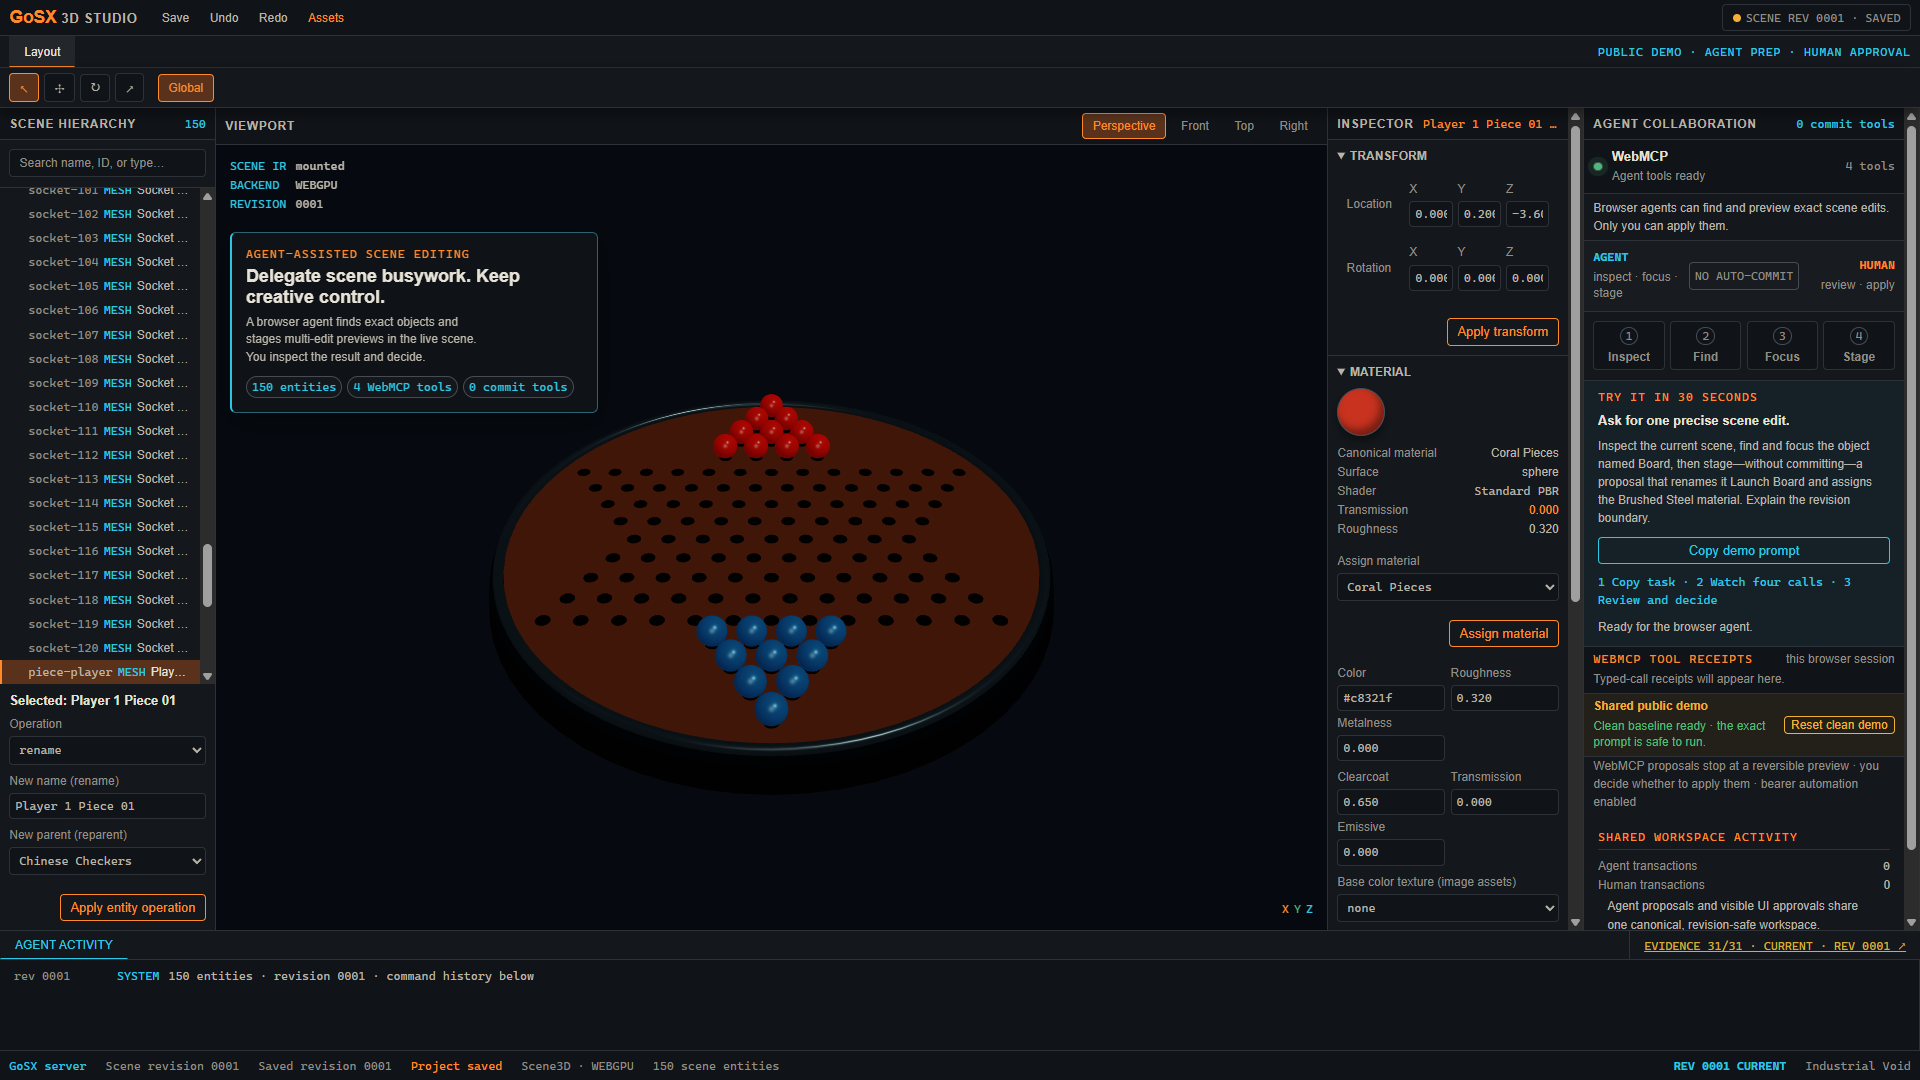
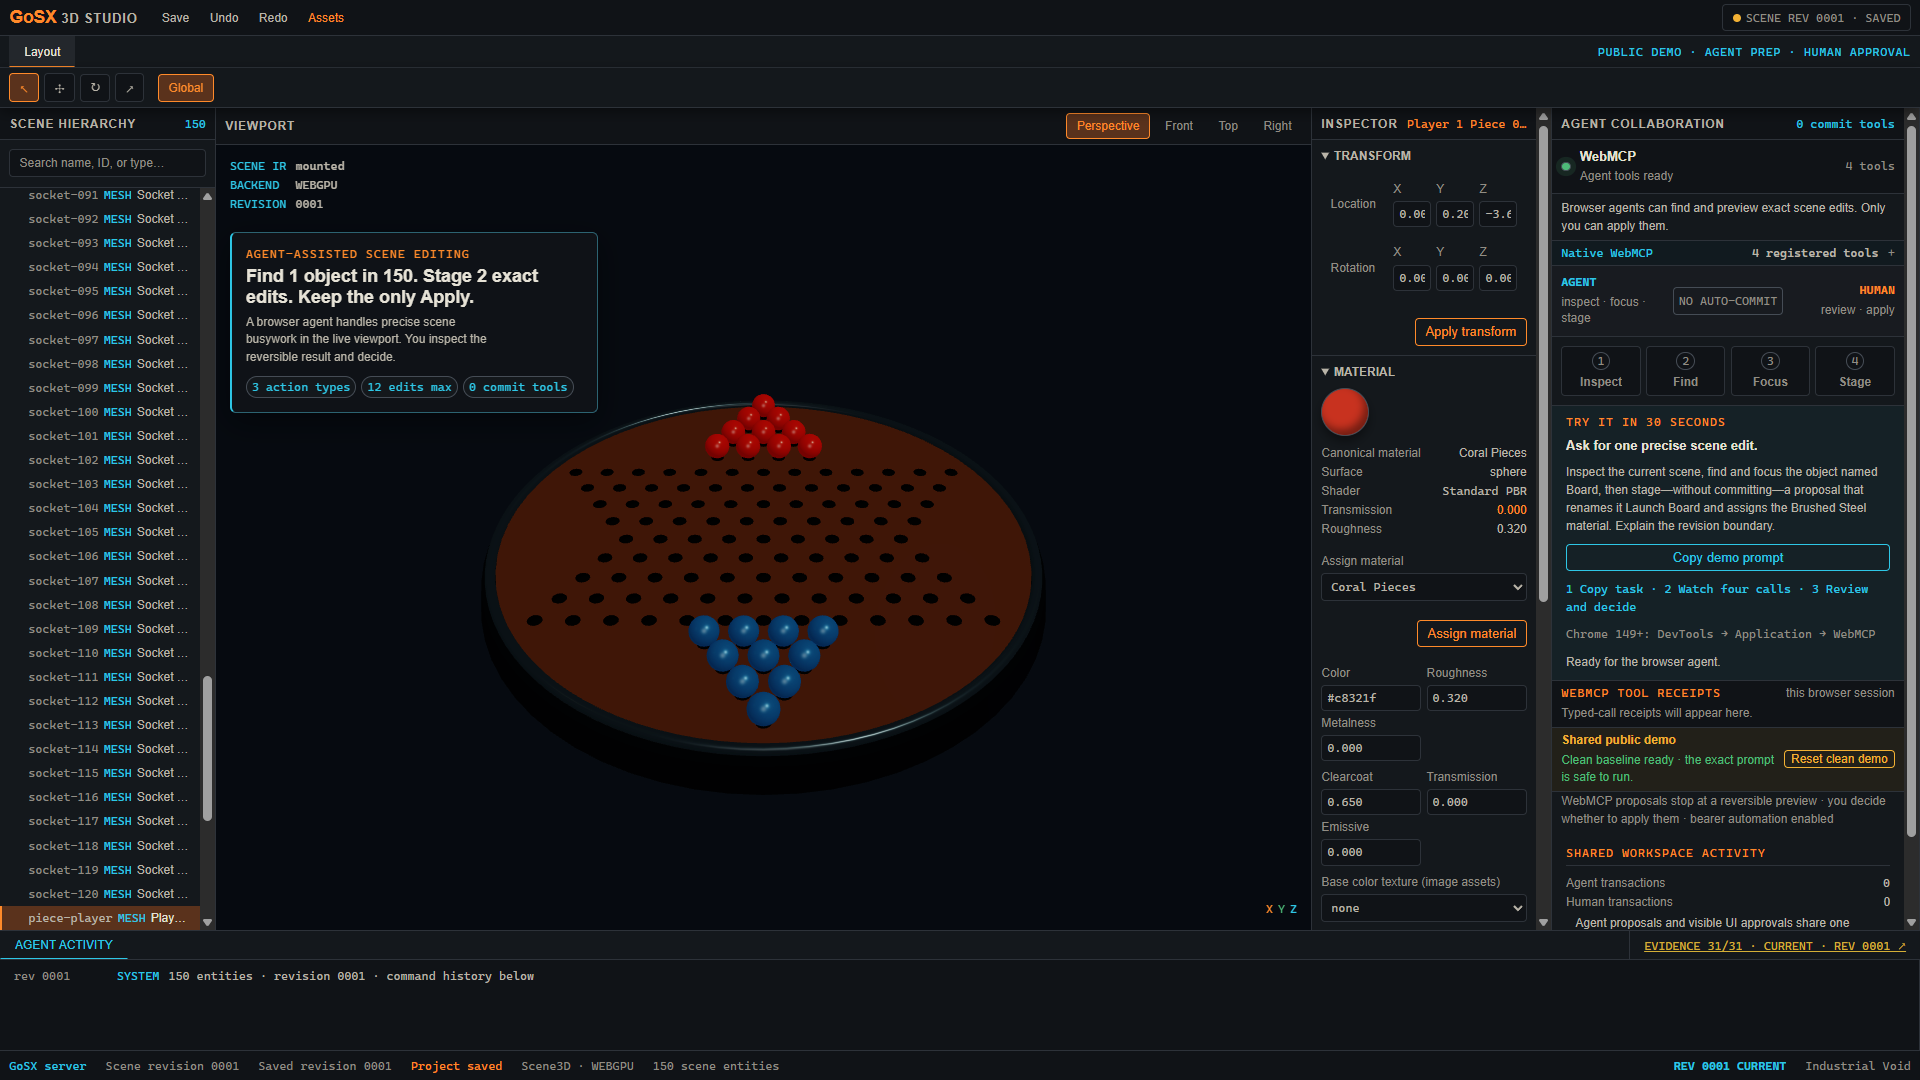
docs: capture deployed polish evidence

diff --git a/devpost-submission.md b/devpost-submission.md
@@ -30,7 +30,7 @@ It registers four focused tools with `document.modelContext.registerTool(...)`:
 
 An agent can inspect 150 entities, resolve `Board` to stable ID `board`, focus
 the visible Studio, and stage a rename plus material assignment. The final
-release candidate names all four native tools in-app. During review, a
+deployed Studio names all four native tools in-app. During review, a
 presentation-size viewport card shows the reversible before/after diff and
 unchanged canonical revision while the artist orbits the live result. The full
 review retains affected IDs, actor, policy evidence, and fingerprint; its
@@ -153,13 +153,29 @@ requirement.
 7. Confirm `Launch Board`, `Brushed Steel`, revision `R+1`, and separate
    agent proposal and human approval activity.
 
-The immutable public GoSX `v0.55.1` deployment passed a **162/162 stress run**
-plus **139/139 clean-recording runs** at both 1920×1080 and 1440×900 in native
-Windows Chrome 152. Chrome exposed native `document.modelContext`, discovered
-exactly four tools, used WebGPU, stayed in one main document with zero reload
-commands, applied the reviewed transaction exactly once through the visible
-human action, and returned to a clean shared scene. No failed assertion,
-runtime exception, console/log error, or HTTP error was recorded.
+The preceding immutable public GoSX `v0.55.1` build (commit
+`1920e05447bfd5d98bee6b0c2576e9302734d46f`, image digest
+`sha256:0ec822b383c8d75536351f7cd6118961340dc93267691b4b67399c74f4774e10`)
+passed a **162/162 stress run** plus **139/139 clean-recording runs** at both
+1920×1080 and 1440×900 in native Windows Chrome 152. Chrome exposed native
+`document.modelContext`, discovered exactly four tools, used WebGPU, stayed in
+one main document with zero reload commands, applied the reviewed transaction
+exactly once through the visible human action, and returned to a clean shared
+scene. No failed assertion, runtime exception, console/log error, or HTTP error
+was recorded.
+
+The final-polish deployment passed a separate public acceptance in native
+Windows Chrome 152 at 1920×1080 and 1440×900. It used WebGPU, rendered 145
+meshes, and exposed exactly four tools. From revision 1 it staged exactly
+`Board → Launch Board` and
+`Carved Wood (board-material) → Brushed Steel (board-steel-material)`; the
+visible human action advanced the scene to revision 2 and left a persistent
+approval outcome. Evidence remained **31/31 · current**, PROPOSED and APPROVED
+activity stayed paired, and the same canvas remained mounted through five
+managed same-document transitions. The guarded flow recorded zero new
+top-level document loads, zero camera writes from hierarchy keyboard input, and
+no failures. This acceptance claim is for native Windows Chrome; ChatGPT's
+in-app browser was not used for it.
 
 Local run and the full automated verification floor are documented in the
 public README and `docs/native-webmcp-qa.md`.
@@ -168,9 +184,9 @@ public README and `docs/native-webmcp-qa.md`.
 
 [GoSX 3D Studio live demo](https://gosx3d.m31labs.dev)
 
-The live URL serves the immutable GoSX `v0.55.1` image built from commit
-`1920e05447bfd5d98bee6b0c2576e9302734d46f`, pinned by digest
-`sha256:0ec822b383c8d75536351f7cd6118961340dc93267691b4b67399c74f4774e10`.
+The live URL serves the immutable GoSX `v0.55.1` image built from main merge
+commit `c2e9af06a67ed1aa95d61bf68aac903fa67fe80e`, pinned by digest
+`sha256:8b28089e5dd6c757744aeae3448d283388f52b0a49b6a2f61c2061d68c5062e7`.
 Its public health endpoint reports `0.55.1`.
 
 ## Public Repository Link
@@ -179,8 +195,8 @@ Its public health endpoint reports `0.55.1`.
 
 The repository is public on its default `main` branch, and the required source,
 MIT license, gallery assets, and testing instructions are available without
-authentication. The deployed judge-clarity implementation is merge commit
-`1920e05447bfd5d98bee6b0c2576e9302734d46f`.
+authentication. The deployed judge-clarity implementation is main merge commit
+`c2e9af06a67ed1aa95d61bf68aac903fa67fe80e`.
 
 ## Demo Video
 
@@ -229,12 +245,15 @@ native Windows Chrome:
 - [x] Deploy the immutable `v0.55.1` image and repeat the public Windows Chrome
       flow: 162/162 stress and 139/139 clean-recording assertions.
 - [x] Capture the three final gallery frames from the public run.
-- [x] Commit and merge the release candidate to the public default branch.
+- [x] Commit and merge the final polish to the public default branch.
 - [x] Implement the final judge-facing UI and recording guards on the polish
       branch.
-- [ ] Deploy that polish build and repeat the public Windows Chrome acceptance
-      and recording-helper verification before updating the immutable-build
-      evidence above.
+- [x] Deploy the final-polish image and repeat public native Windows Chrome
+      acceptance at 1920×1080 and 1440×900: WebGPU, 145 meshes, four tools,
+      revision 1 → 2, exact staged diffs, persistent approval, Evidence 31/31,
+      paired activity, the same mounted canvas, zero document loads, five
+      managed same-document transitions, zero keyboard camera writes, and no
+      failures.
 - [ ] Record and publish the 2:28 YouTube demo with audio, then verify it while
       signed out.
 - [ ] Supply the six owner-confirmed answers clearly marked below.
@@ -265,11 +284,11 @@ choose for the submitter.
 | 28250 | **Country of residence of yourself and team members if applicable** (required, multi-select) | `[OWNER INPUT REQUIRED: select every applicable country exactly as listed]` |
 | 28251 | **If submitting on behalf of an organization, what is the organization name?** (optional) | `[OWNER INPUT REQUIRED IF ORGANIZATION: enter the legal organization name; otherwise leave blank]` |
 | 28252 | **App Status** (required: New / Existing) | `Existing` |
-| 28253 | **If Existing, explain what you updated during the submission period. (We recommend explaining this in your text description, too!)** (optional) | `GoSX 3D Studio existed before August 25 with its SceneDoc workbench and revision-safe human/agent transaction engine. During the Challenge we added four webpage-registered WebMCP tools for canonical inspection, stable-ID search, visible focus, and bounded non-canonical proposals; session-owned review; executable Arbiter policy evidence; a visible human-only exact-commit boundary; typed-call receipts and actor attribution; same-document Scene3D reconciliation; WebGPU-first rendering; and a polished PBR sample scene. The final release candidate adds an in-app native-tool disclosure, a presentation-size reversible diff, sticky human-only approval, a persistent revision outcome, race-safe demo reset, conflict-free hierarchy keyboard control, and a recording verifier for the exact handoff. We do not claim the pre-existing editor or transaction foundations as Challenge work.` |
+| 28253 | **If Existing, explain what you updated during the submission period. (We recommend explaining this in your text description, too!)** (optional) | `GoSX 3D Studio existed before August 25 with its SceneDoc workbench and revision-safe human/agent transaction engine. During the Challenge we added four webpage-registered WebMCP tools for canonical inspection, stable-ID search, visible focus, and bounded non-canonical proposals; session-owned review; executable Arbiter policy evidence; a visible human-only exact-commit boundary; typed-call receipts and actor attribution; same-document Scene3D reconciliation; WebGPU-first rendering; and a polished PBR sample scene. The final deployed polish adds an in-app native-tool disclosure, a presentation-size reversible diff, sticky human-only approval, a persistent revision outcome, race-safe demo reset, conflict-free hierarchy keyboard control, and a recording verifier for the exact handoff. We do not claim the pre-existing editor or transaction foundations as Challenge work.` |
 | 28254 | **Live URL that judges can access using ChatGPT's in-app browser or Google Chrome with WebMCP enabled** (required) | [https://gosx3d.m31labs.dev](https://gosx3d.m31labs.dev) |
 | 28255 | **If applicable, testing instructions for application - If you have credentials for your URL, you can put them here.** (optional/private) | `No credentials required. Reset the shared scene and wait for Agent tools ready · 4 tools. In an agent-enabled client, use Copy demo prompt. In Chrome, the same four tools can be invoked from DevTools → Application → WebMCP. Confirm Inspect → Find → Focus → Stage, inspect the non-committed preview at canonical revision R, then click the visible Apply 2 exact edits action and confirm Launch Board, Brushed Steel, and revision R+1.` |
 | 28256 | **URL to your PUBLIC Code Repo (on Github, Gitlab, or Bitbucket)** (required) | [https://github.com/M31-Labs/gosx3d-studio](https://github.com/M31-Labs/gosx3d-studio) |
-| 28257 | **Which agent(s) or client(s) did you test your WebMCP tools with?** (required) | `Google Chrome 152 on Windows with WebMCPTesting and DevToolsWebMCPSupport. The immutable public GoSX v0.55.1 build passed a 162/162 stress run plus 139/139 clean-recording runs at 1920×1080 and 1440×900 using native document.modelContext, WebGPU, exactly four tools, zero reload commands, one main-document request per run, exact-once visible human Apply, and clean reset. No failed assertion, runtime exception, console/log error, or HTTP error was recorded. ChatGPT in-app testing was not completed and is not claimed.` |
+| 28257 | **Which agent(s) or client(s) did you test your WebMCP tools with?** (required) | `Google Chrome 152 on Windows with WebMCPTesting and DevToolsWebMCPSupport. The preceding immutable public GoSX v0.55.1 build passed a 162/162 stress run plus 139/139 clean-recording runs. The final-polish public deployment then passed a separate acceptance at 1920×1080 and 1440×900 using native document.modelContext, WebGPU, 145 meshes, exactly four tools, an exact revision 1→2 staged-and-approved handoff, Evidence 31/31 current, paired activity, the same mounted canvas, zero new document loads during the guarded flow, five managed same-document transitions, zero hierarchy-keyboard camera writes, and no failures. ChatGPT in-app testing was not completed and is not claimed.` |
 | 28258 | **Which AI tools have you leveraged while working on this project?** (required) | `OpenAI Codex for repository analysis, implementation, test authoring, debugging, verification, documentation, and submission preparation. [OWNER INPUT REQUIRED: confirm Codex was the only AI tool, or list every other AI tool used.]` |
 | 28259 | **Describe the level of learning you/your team derived from the project** (required: None / Moderate / Significant) | `[OWNER INPUT REQUIRED: choose one]` |
 | 28260 | **Did you gain AI value that you can use in your career?** (required: Yes / No) | `[OWNER INPUT REQUIRED: choose one]` |

diff --git a/README.md b/README.md
@@ -6,10 +6,10 @@ path.
 
 **Live judge demo:** [gosx3d.m31labs.dev](https://gosx3d.m31labs.dev)
 
-> **Deployment status:** The live URL still serves the immutable build identified
-> under [Deploy on Kubernetes](#deploy-on-kubernetes). The judge-facing handoff
-> enhancements described below as release-candidate work are present in source,
-> but are not claimed as live until the next immutable deployment.
+> **Deployment status:** The live URL serves the final-polish build from main
+> merge commit `c2e9af06a67ed1aa95d61bf68aac903fa67fe80e`, pinned to image digest
+> `sha256:8b28089e5dd6c757744aeae3448d283388f52b0a49b6a2f61c2061d68c5062e7`.
+> Its public health endpoint reports GoSX `0.55.1`.
 
 ![GoSX 3D Studio showing a human-approved WebMCP scene change](docs/assets/webmcp-human-applied.png)
 
@@ -31,7 +31,7 @@ without surrendering scene authority.
 The Studio now exposes its existing human/agent scene contract directly to a
 compatible browser. An agent can inspect canonical scene state, search stable
 object IDs, focus the visible hierarchy, and stage a bounded edit preview. The
-release candidate names all four registrations and their roles in an in-app
+deployed Studio names all four registrations and their roles in an in-app
 **Native WebMCP** disclosure, with a direct link to the `registerTool` source.
 
 When the two-edit demo is staged, a presentation-size card mirrors the exact
@@ -104,16 +104,30 @@ To exercise the WebMCP tools, use ChatGPT's in-app browser or Chrome 149+ with
 `chrome://flags/#enable-webmcp-testing` enabled. The Agent Collaboration panel
 reports whether the browser registered all four tools.
 
-The immutable public GoSX v0.55.1 build passed a 162/162 stress run plus
-139/139 clean-recording runs at both 1920×1080 and 1440×900 in Google Chrome
-152 on Windows. Chrome used its native `document.modelContext`,
-discovered exactly four tools, negotiated WebGPU, issued zero reload commands,
-and made one main-document request per run. The flow staged a reversible
-preview, applied it exactly once through the visible human action, and reset to
-a clean shared scene with no failed assertions, runtime exceptions,
-console/log errors, or HTTP errors. ChatGPT's in-app browser remains useful
-optional cross-client assurance. See [Native WebMCP
-verification](docs/native-webmcp-qa.md) for the exact evidence boundary and
+The preceding immutable public GoSX v0.55.1 build (commit
+`1920e05447bfd5d98bee6b0c2576e9302734d46f`, image digest
+`sha256:0ec822b383c8d75536351f7cd6118961340dc93267691b4b67399c74f4774e10`)
+passed a 162/162 stress run plus 139/139 clean-recording runs at both
+1920×1080 and 1440×900 in Google Chrome 152 on Windows. Chrome used its native
+`document.modelContext`, discovered exactly four tools, negotiated WebGPU,
+issued zero reload commands, and made one main-document request per run. The
+flow staged a reversible preview, applied it exactly once through the visible
+human action, and reset to a clean shared scene with no failed assertions,
+runtime exceptions, console/log errors, or HTTP errors.
+
+The final-polish deployment then passed a separate public acceptance in native
+Windows Chrome 152 at both 1920×1080 and 1440×900. It negotiated WebGPU,
+rendered 145 meshes, and exposed exactly four tools. Starting at revision 1,
+the flow staged exactly `Board → Launch Board` and
+`Carved Wood (board-material) → Brushed Steel (board-steel-material)`; visible
+human approval advanced the scene to revision 2 and left a persistent approval
+outcome. Evidence remained **31/31 · current**, the PROPOSED and APPROVED
+activity records stayed paired, and the original canvas remained mounted
+through five managed same-document transitions. The guarded flow observed zero
+new top-level document loads, zero camera writes from hierarchy keyboard input,
+and no failures. ChatGPT's in-app browser remains useful optional cross-client
+assurance; this acceptance claim is for native Windows Chrome. See [Native
+WebMCP verification](docs/native-webmcp-qa.md) for the evidence boundary and
 exercised workflow.
 
 For the final public take, `scripts/record-public-demo.mjs` attaches to an
@@ -153,9 +167,9 @@ non-root with a read-only root filesystem, health probes, bounded resources,
 runtime secrets outside Git, an immutable Harbor digest, and TLS through the
 existing M31 Labs ingress.
 
-The current public deployment was built from commit
-`1920e05447bfd5d98bee6b0c2576e9302734d46f` and is pinned to image digest
-`sha256:0ec822b383c8d75536351f7cd6118961340dc93267691b4b67399c74f4774e10`.
+The current public deployment was built from main merge commit
+`c2e9af06a67ed1aa95d61bf68aac903fa67fe80e` and is pinned to image digest
+`sha256:8b28089e5dd6c757744aeae3448d283388f52b0a49b6a2f61c2061d68c5062e7`.
 Its public health endpoint reports GoSX `0.55.1`.
 
 Keep the service at one instance: the demo intentionally shares process-local
